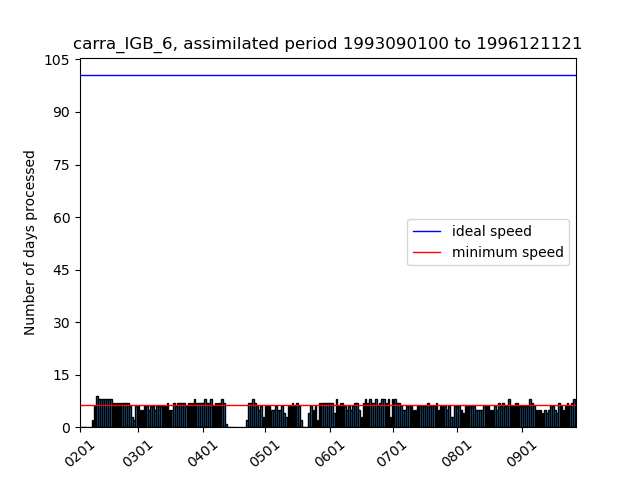
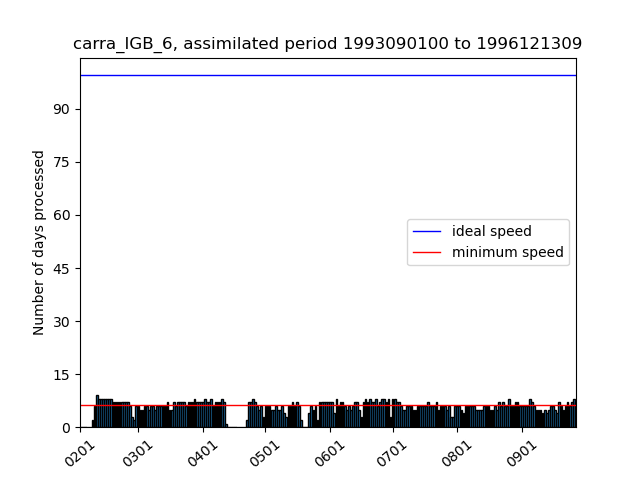
update repo

diff --git a/current_state_sims.html b/current_state_sims.html
@@ -2,18 +2,18 @@
 <h1>Estimated completion dates and simulation speeds</h1>
 <p>Stream (production) completion date based on 30d (7d) moving avg speed</p>
 <p><a href="https://docs.google.com/document/d/1zDKAxuEXYnWWYzT3SZnZwY5WW8nodUMeYRjAGz46coc/edit#">Details of the calculation of the completion dates</a></p>
-<p>Last update: 2021/09/28 00:42:13 UTC</p>
+<p>Last update: 2021/09/28 06:45:30 UTC</p>
 <p>Total progress CARRA: 99.33% <a href="https://hirlam.org/portal/CARRA/Progress/GanntChart_CARRA.html"> (see detailed progress meter in Gantt chart) </a></p>
 <p>Total progress PANARCTIC: 100.0% </p>
 <p><a href="https://hirlam.org/portal/CARRA/Progress/waiting_times.html"> Queue waiting times for all streams</a></p>
 <p><a href="https://hirlam.org/portal/CARRA/Progress/mars_status.html"> MARS archive throughput </a></p>
 <html><table border="1"><tr><th>expId</th><th>Current assimilated date</th><th>End date of stream </th><th> Completion date</th><th> Avg. throughput (7d) </th> <th>Avg. throughput (30d) </th> <th> Remarks</tr>
-<tr bgcolor="#FFFF00"><td>carra_NE_3</td><td>2021063000</td><td>2021063021</td><td>2021092800</td><td>(0.0) days/day</td><td>(3.57) days/day</td><td>Inactive the past week</tr>
+<tr bgcolor="#FFFF00"><td>carra_NE_3</td><td>2021063000</td><td>2021063021</td><td>2021092806</td><td>(0.0) days/day</td><td>(3.57) days/day</td><td>Inactive the past week</tr>
 <tr bgcolor="#33FF38"><td>carra_NE_4</td><td>1992090100</td><td>1992083021</td><td>Finished on 20210824</td><td>(0.0) days/day</td><td>(0.0) days/day</td><td>Stream finished</tr>
 <tr bgcolor="#33FF38"><td>carra_NE_5</td><td>1994090100</td><td>1994083021</td><td>Finished on 20210824</td><td>(0.0) days/day</td><td>(0.0) days/day</td><td>Stream finished</tr>
-<tr bgcolor="#33FF38"><td>carra_NE_6</td><td>1997070100</td><td>1997063021</td><td>2021092718</td><td>(0.0) days/day</td><td>(4.17) days/day</td><td>Stream finished</tr>
-<tr bgcolor="#FFFFFF"><td>carra_IGB_3</td><td>2021063000</td><td>2021063021</td><td>2021092800</td><td>(0.43) days/day</td><td>(3.43) days/day</td><td></tr>
-<tr bgcolor="#33FF38"><td>carra_IGB_4</td><td>1992090100</td><td>1992083021</td><td>2021092701</td><td>(0.0) days/day</td><td>(2.03) days/day</td><td>Stream finished</tr>
-<tr bgcolor="#33FF38"><td>carra_IGB_5</td><td>1994090100</td><td>1994083021</td><td>2021092715</td><td>(3.86) days/day</td><td>(5.4) days/day</td><td>Stream finished</tr>
-<tr bgcolor="#FFA500"><td>carra_IGB_6</td><td>1996121121</td><td>1997063021</td><td>2021110106</td><td>(6.29) days/day</td><td>(5.87) days/day</td><td>Completion date after project end (20211031)</tr>
-<tr bgcolor="#FFFFFF"><td>carra_pan</td><td>2018080221</td><td>2018083121</td><td>2021100613</td><td>(3.29) days/day</td><td>(3.4) days/day</td><td></tr>
+<tr bgcolor="#33FF38"><td>carra_NE_6</td><td>1997070100</td><td>1997063021</td><td>2021092801</td><td>(0.0) days/day</td><td>(4.17) days/day</td><td>Stream finished</tr>
+<tr bgcolor="#FFFFFF"><td>carra_IGB_3</td><td>2021063000</td><td>2021063021</td><td>2021092806</td><td>(0.43) days/day</td><td>(3.43) days/day</td><td></tr>
+<tr bgcolor="#33FF38"><td>carra_IGB_4</td><td>1992090100</td><td>1992083021</td><td>2021092707</td><td>(0.0) days/day</td><td>(2.03) days/day</td><td>Stream finished</tr>
+<tr bgcolor="#33FF38"><td>carra_IGB_5</td><td>1994090100</td><td>1994083021</td><td>2021092721</td><td>(3.86) days/day</td><td>(5.4) days/day</td><td>Stream finished</tr>
+<tr bgcolor="#FFFFFF"><td>carra_IGB_6</td><td>1996121309</td><td>1997063021</td><td>2021103119</td><td>(6.57) days/day</td><td>(5.93) days/day</td><td></tr>
+<tr bgcolor="#FFFFFF"><td>carra_pan</td><td>2018080315</td><td>2018083121</td><td>2021100610</td><td>(3.43) days/day</td><td>(3.43) days/day</td><td></tr>
